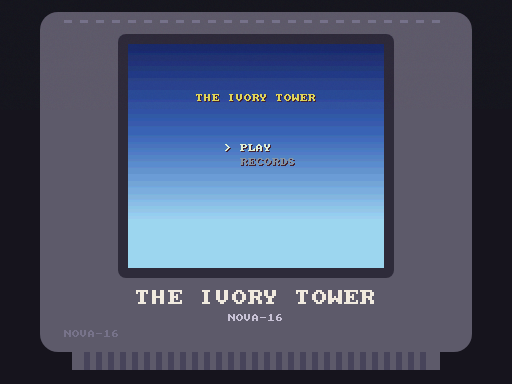
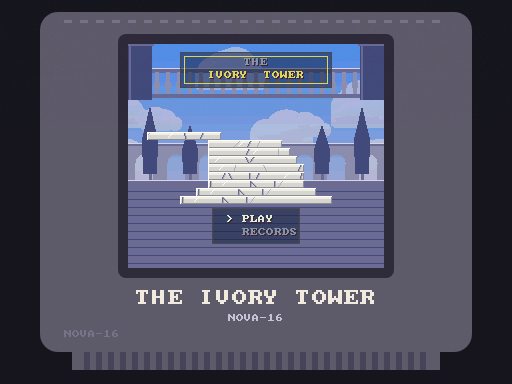
The Ivory Tower, step 8: the label, the playbook's notes, the spec complete
Claude-Session: https://claude.ai/code/session_01Nc4JskrxPXMSXcsQP1Fakb

Changed region(s): [[0.25, 0.0938, 0.75, 0.7188]]

diff --git a/docs/dev/playbook.md b/docs/dev/playbook.md
@@ -517,3 +517,24 @@ What building `star-cadet` taught (its spec is `docs/carts/star-cadet.md`; every
 - **Events make the rules testable without a ball.** Each handler `emit`s what happened (`bump`, `rampL`, `gate`); the lamps and the missions read the events, so a test says "did(p,
   'rampL', 'rampR')" and checks the rule, and a few tests play the real thing. One list of balls (`bs`, with `ball` the first) is all a multiball needs.
 - **Split a game into songs when its layers rise.** Channels cannot be muted from code, so three songs (pulse, plus a lead, plus drums) follow the rank; the cue is one function called each frame.
+
+## 12. A stacking game on this console (The Ivory Tower)
+
+What building `ivory-tower` taught (its spec is `docs/carts/ivory-tower.md`; every point has a test in `tests/carts/ivory-tower/`):
+
+- **Draw what repeats from a number, not from a picture.** A slab is a fill, a lit band, a few slanted veins and a bevel on the overlay, from its floor number and a hash (`hash(floor, k)`): no tiles, any
+  width, five marbles by choosing 8 colour entries. Hang the pattern on where the slab was before it was cut (`ox`), so a cut slab and a slice keep their veins; a test draws the same floor in two places
+  and compares the pixels. About 25 slabs, each a clip, a fill and a few lines, cost about 1 ms a frame.
+- **The overlay is above everything, so scenery goes on the layers and the colours move.** The landmarks are one tall strip on BG0 (256 x 616) scrolled with the camera (`bg y = 352 - cam`), the clouds a repeating field on BG1
+  at half the speed (translucent: `blend({ layers: ['overlay', 'bg1'], half: true })`), the stars and the moon on BG2. The sky is a gradient set in `scanline()` from an array filled in `update()` (only pure maths is allowed
+  in `scanline`), and the palette entries the layers use are set each frame from the same sky (landmarks the horizon's colour and darker, clouds white by day and rosy at sunset, stars fading in): one function of
+  the height changes the whole scene, and a test checks that it has no jump in 0.1 floor.
+- **A camera that cannot zoom flies instead.** The tower is taller than the screen; at the end the camera flies back down it (3 px a frame or 5 %), the sky and the landmarks passing in reverse, and the result shows when it lands.
+- **Constants at the top, a bot that errs the way a thumb does.** The feel of a one-button game is three numbers (the perfect window, the regrow, the speed's step). The bot's error is in *frames* of the slab's travel
+  (so it grows with the speed), its skill sets how many; a sweep of each number on its own and together (a variant of the cart packed to a temporary folder, `IVORY_CART=` for the harness) showed which ones matter:
+  the window and the speed step move the result a lot, the regrow hardly at all for a bot. A test (`08-balance.mjs`) holds the ranges.
+- **A bot needs a new press each time** (the cart drops on a press, not while held): tapping on alternate frames locked onto one parity of the slab's cycle and never dropped. Release the button the frame before.
+- **Layers of music are songs of their own.** Four songs on one chord round and one tune (the piano, then the flute and a pulse, then a choir and a lower bass); the code starts the next from its first bar at a landmark,
+  under the fanfare, which hides the change. The loudness measured as a gentle build (0.037, 0.039, 0.049, 0.051). An effect for every note of a ladder (20 chimes of 34 effects) is cheap: a note is a few hundred bytes of one sample.
+- **Make the title the game's first picture.** A tower of the best's height standing over a courtyard (raised so the menu has room below), a slab sliding over it for ever; the label is that screen (`release.js --wait 2500`);
+  the demo (a player that errs by a few pixels and ends by itself) starts after 20 idle seconds and records nothing.

diff --git a/README.md b/README.md
@@ -69,7 +69,7 @@ Cursor) or a chat, which then makes a game with you from this repository. You ca
 | `franchise` | The Franchise: Basketball Edition: a front-office simulator for one general manager and 30 fictional teams, with a 58-game season and playoffs, live game nights (a court, a ticker, a box score), lineup, minutes and training, injuries, the salary cap and tax, ticket prices and the owner's patience, re-signing, free agency, a scouted draft and trades with the computer. The whole league is a function of a seed, so it fits the 1 KB save (D-pad, A, B, X, Y, L, R; START pauses) |
 | `flow-state` | Flow State: a rhythm game to Bach and Beethoven with one button. A frog hops onto the lily pads that float down a river in perspective, one for each note of the melody (the Minuet in G, the Air on the G String, Für Elise, the Moonlight Sonata, the Badinerie); a flow meter instead of a game over, a multiplier that makes the river brighter and brings out fireflies, three difficulties, a map with unlocks and a calibration for the speakers' delay. The chart and the song are made from the same notes, so a pad is on its note to the frame (D-pad, A, B, START, SELECT) |
 | `star-cadet` | Star Cadet Pinball: a pinball game on one tall scrolling table, in the spirit of the classic space-themed one. Pop bumpers, slingshots, two ramps (a shot at the right moment: a fast one flies over into an orbit), a spinner, drop and standup targets, a gate, a kickback, a ball save, an extra ball, nudging with a tilt; light three mission lamps and shoot the gate to start the mission of your rank, and rise from Cadet to Fleet Admiral through nine missions (a multiball at Admiral); the table's light and the music follow your rank. One to four players take turns, a top 10 with initials and a best rank are saved, and the title plays a demo by itself. The D-pad is the left flipper and A, B, X, Y the right one, one thumb each (D-pad, A, B, X, Y, L, R, START, SELECT) |
-| `ivory-tower` | The Ivory Tower: a calm, endless stacking game in the spirit of Stack. A slab of marble slides above the tower; tap to drop it, and whatever overhangs the slab below is sliced off and falls away; a drop dead on keeps the whole slab, and three in a row start to give width back. One player, any button drops (the D-pad, A, B, X, Y), START pauses. Being built in steps: so far the rules, the five marbles, a sky from dawn to night with a landmark every ten floors, points, a title that plays a demo by itself, music that gains a layer as you climb, a top 10 with initials and a best height |
+| `ivory-tower` | The Ivory Tower: a calm, endless stacking game in the spirit of Stack. A slab of marble slides above the tower; tap to drop it, and whatever overhangs the slab below is sliced off and falls away; a drop dead on keeps the whole slab, and three in a row start to give width back. One player, any button drops (the D-pad, A, B, X, Y), START pauses. Five marbles, a sky from dawn to night with a landmark every ten floors (a banner and a chime for each), music that gains a layer as you climb, a demo on the title, a top 10 with initials and a saved best height |
 | `showcase` | The art kit's SNES tools at work (docs/dev/snes-picture.md): two sculpted boxers in a ring, framed as Super Punch-Out!! (our hero from behind), with a receded crowd and HUD lettering, and a parallax valley under a sky gradient (LEFT and RIGHT) |
 | `effects` | Colour blending, brightness, windows and mosaic: a see-through panel, shadows, light, water, fades, spotlights, an iris wipe, coloured glass and the mosaic, one page each (LEFT and RIGHT) |
 | `chiptune` | A six-channel song and five sound effects on the old sound chip (a version-1 cart, kept as it was), all editable in the Music and SFX tabs |

diff --git a/docs/carts/ivory-tower.md b/docs/carts/ivory-tower.md
@@ -1,7 +1,7 @@
 # The Ivory Tower: Cart Specification
 
 **Version:** 0.2 (spec agreed in outline)
-**Status:** Steps 1 to 7 (the rules, the marble, the sky and the landmarks, the scoring, the flow, the audio, the balance) built; step 8 to come
+**Status:** Built: all eight steps; released to the Library
 **Cart source:** `carts/src/ivory-tower/` → `carts/ivory-tower.nova`
 
 ---
@@ -218,6 +218,13 @@ a speed step of 0.03 gave 13 / 19 / 38 / 63, of 0.06 12 / 17 / 30 / 42. *Chosen:
 
 *Results.* A casual player (about 6 frames of error) climbs about 13 floors in 15 seconds, a fair one (3 frames) about 21 floors in 22 s, a good one (2 frames) about 40 floors in 34 s, an expert (1 frame) about 68 floors in 48 s (the first floors are slow by design: a slab takes two seconds to cross at the start). The sweep ran clean (no stuck state, the soak of `verify` too).
 The regrow matters little to a bot, which rarely strings perfects; for a person who does, it is the reward of a long run (a perfect 10 in a row is 10 + 20 ... + 100 points and a slab as wide as it began). A person is not a bot: this is the first thing to change after playing it. A run is short at the start and long at the end by design, and the best height is the thing to beat.
+
+**Step 8: built and results.**
+
+*Built.* The label (`release.js --wait 2500`: the title, a tower of 5 floors over the courtyard with the logo and the menu), the PNG cart, the Library entry (`carts/index.json`, shelf Arcade, one player), the README row, the playbook's section 12 (what this game taught), and the budget table filled in. The spec's open questions are answered or noted: the feel is set by the bot and is the first thing to change after playing it;
+the side view reads well on 256 x 224 (the slab and the tower are easy to see against the layers); the overlay's cost is about 1 ms a frame, and the ring and sparkles are overlay shapes.
+
+*Results.* `node tools/verify.js ivory-tower` (with the tests), `smoke`, the sweep and `check.js` pass; the PNG cart decodes to exactly the packed cart (47 KB of 147 KB).
 
 Each step: build it, run `node tools/check.js ivory-tower` and `node tools/test.js ivory-tower`, write its **Built** and **Results** notes under its number here, commit and push.
 
